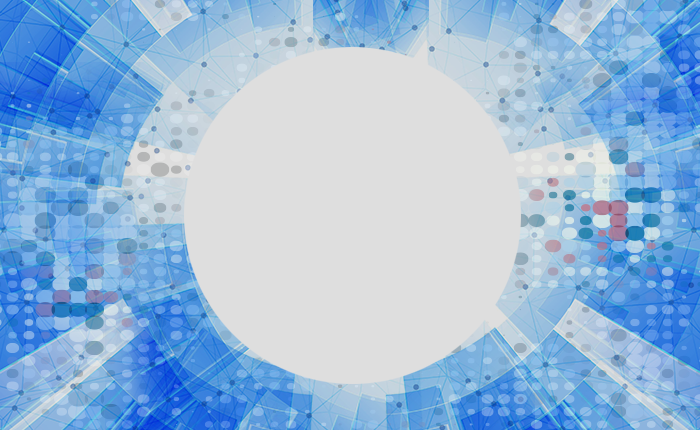
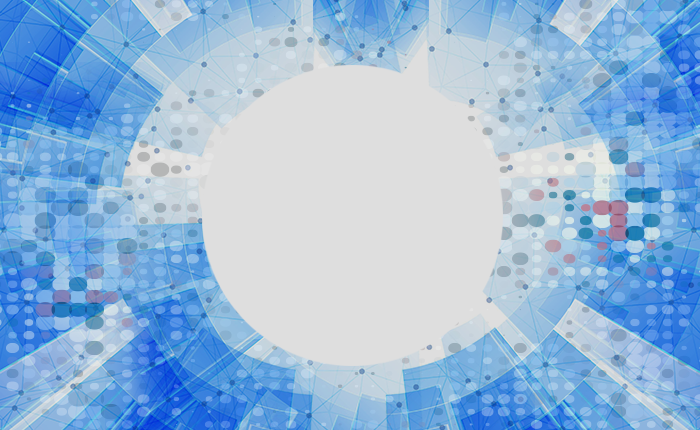
'Fix'

diff --git a/app/styles/main.css b/app/styles/main.css
@@ -383,7 +383,7 @@ div#cirsm1 {
 	font-size: 14px;
 	text-align: center;
 	padding: 10px;
-	background: #f6f6f6;   
+	background: #f6f6f6;
 	color: #fff;
 	text-decoration: none;
 	transition: all .3s ease-in-out;
@@ -450,7 +450,7 @@ div#cirsm1 {
 .circle-block {
 	width: 260px;
 	display: inline-block;
-	margin: 45px auto;
+	margin: 56px 147px;
 	position: relative;
 }
 .circle {
@@ -852,7 +852,7 @@ ul {
 	margin: 0 auto;
 	background: white;
 	margin-bottom: 20px;
-	min-height: 220px;				
+	min-height: 220px;
 	float: left;
 	box-shadow: 0 0 6px 4px #ccc;
 }
@@ -889,7 +889,7 @@ ul {
 	margin: 0 auto;
 	padding: 10px;
 	background: white;
-} 			
+}
 
 .table {
 	width: 100%;
@@ -1192,4 +1192,5 @@ td {
   background: url('../images/animation-bg-1.png');
   background-repeat: no-repeat;
   background-position: center;
+  background-size: 100%;
 }
